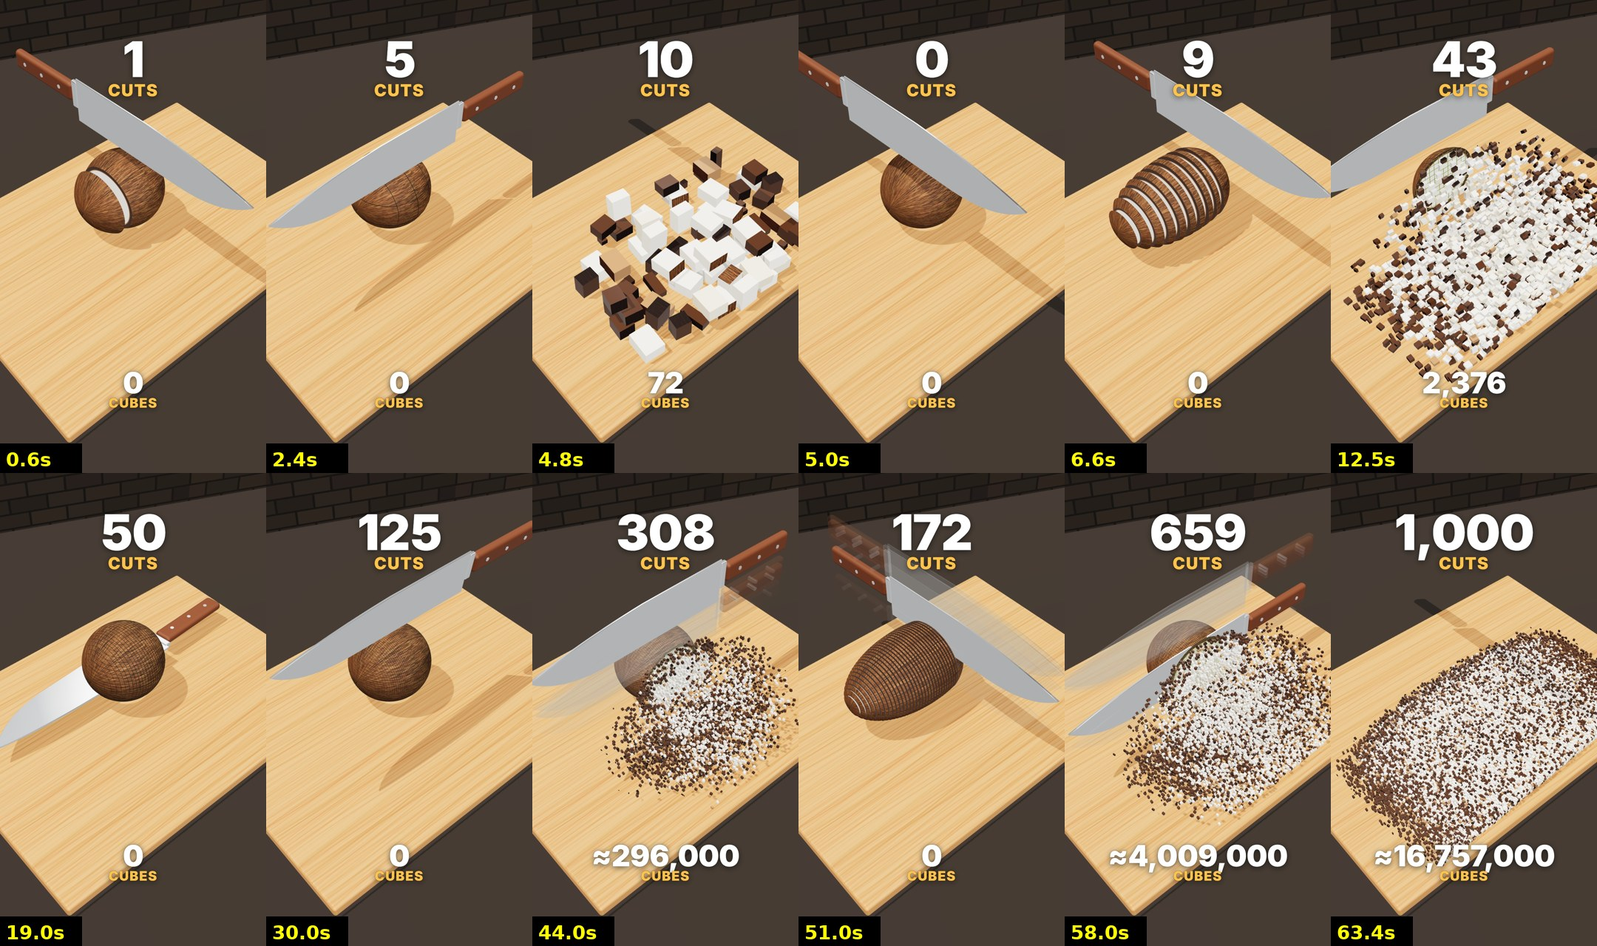
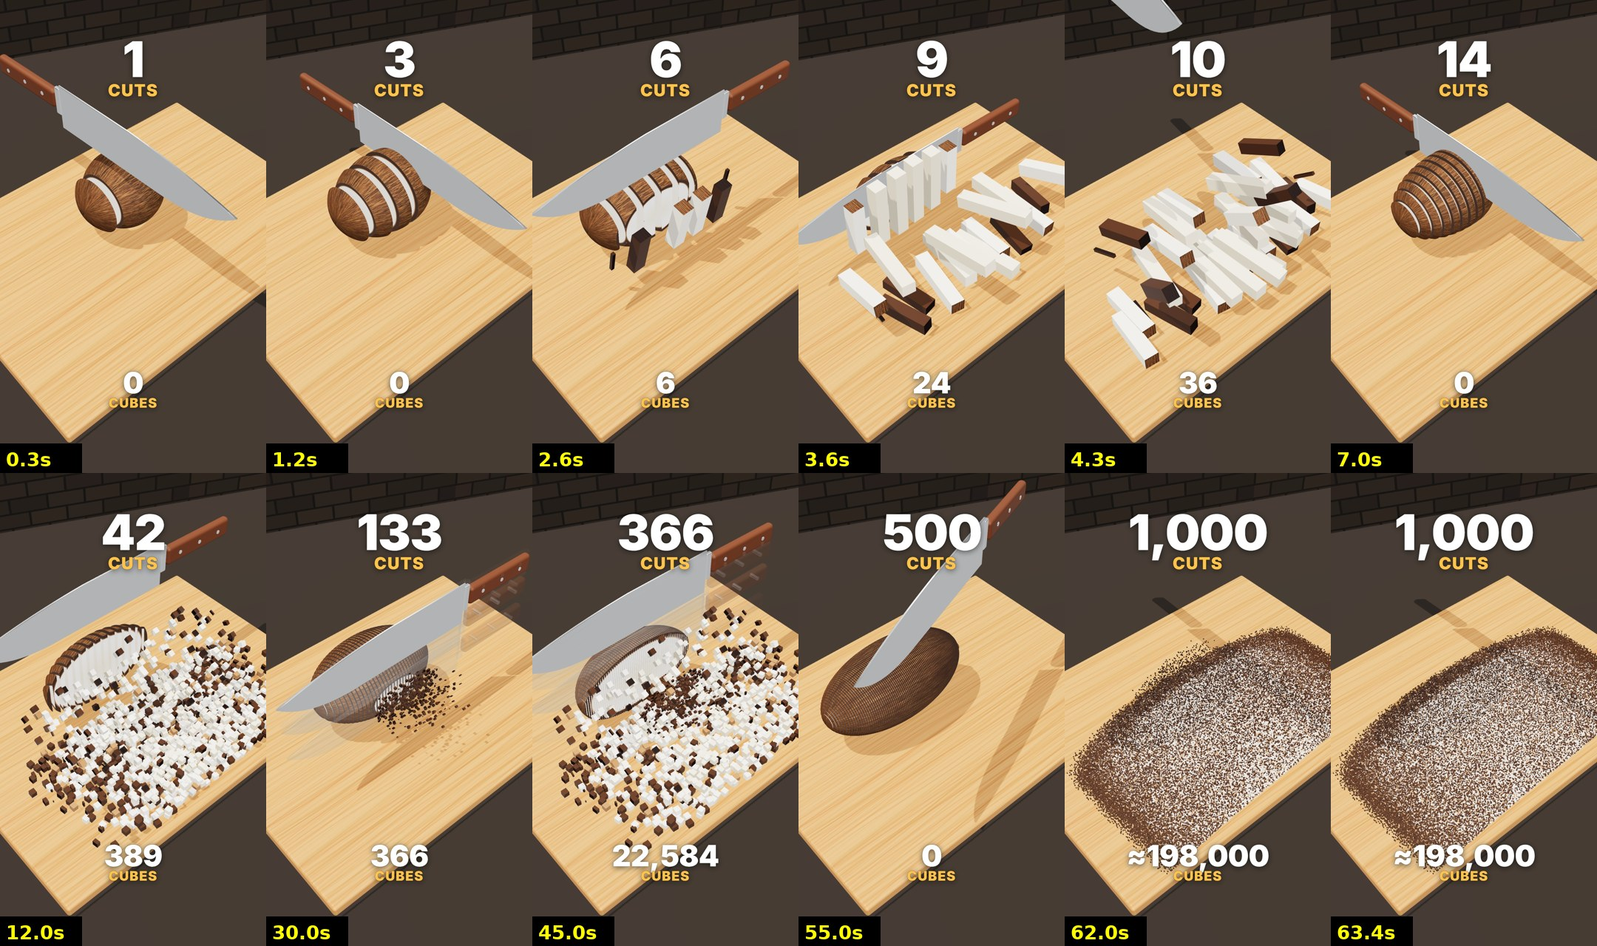
Coconut v2: two cut directions, slices stay apart, rows break into cubes that shrink every round, first cut at 0.12 s, buried cubes culled
Claude-Session: https://claude.ai/code/session_01Ro5VQJpaLhF8Rr21k8EMLG

diff --git a/offthebooks/satisfying/coconut.html b/offthebooks/satisfying/coconut.html
@@ -28,20 +28,25 @@ const easeOut = x => 1 - Math.pow(1 - clamp(x), 3), easeIn = x => Math.pow(clamp
 const hash = (a, b, c = 0) => { let h = Math.imul(a | 0, 374761393) ^ Math.imul(b | 0, 668265263) ^ Math.imul(c | 0, 1274126177); h = Math.imul(h ^ (h >>> 13), 1274126177); return ((h ^ (h >>> 16)) >>> 0) / 4294967296; };
 const near = (a0, a1, c) => c < a0 ? a0 - c : c > a1 ? c - a1 : 0;     // distance from c to the range [a0, a1]
 
-// ---------- timeline: idle → lengthwise cuts → turn → horizontal cuts → turn → crosswise cuts → hold → slide ----------
-const PLAN = [[10, 3.6], [50, 7.4], [100, 8.0], [250, 9.8], [500, 10.8], [1000, 12.0]];   // longer rounds, like the reference (first cut still lands at once)
-const IDLE = .3, TURN = .42, HOLD = .75, LAST_HOLD = 1.9, CLOSE = .8;   // CLOSE: part of the A→C turn in which the slices slide back together
+// ---------- timeline (like the reference): lengthwise cuts → turn → crosswise cuts → short hold → hard cut ----------
+// two directions only. Lengthwise slices really come apart; on the crosswise pass every freed row breaks into cubes.
+const PLAN = [[10, 3.8], [50, 8.3], [100, 8.7], [250, 10.9], [500, 11.9], [1000, 12.9]];   // longer big rounds, ~0.4 s single chops in round 10
+// drawn cube size per round (round 10: the real pieces): every round clearly smaller than the one before
+const SIZE = [0, .16, .1, .065, .042, .027];
+const IDLE = .12, TURN = .42, HOLD = .45, LAST_HOLD = 1.9;      // ~0.5 s of quiet between rounds
 const ROUNDS = []; let acc = 0;
 PLAN.forEach(([n, w], i) => {
-  const ac = Math.round(n / 2), a = Math.round(ac * RX / (RX + RY)), c = ac - a, b = n - ac;   // like the reference: cubes start at half of the cuts
+  const a = Math.round(n / 2), b = n - a, c = 0;
   const r = { i, n, a, c, b, t0: acc };
-  const idle = i === 0 ? .03 : IDLE, turn = i === 0 ? .26 : TURN;  // the very first cut lands right away
-  r.p1 = acc + idle; r.p1e = r.p1 + w * a / n;                     // A: lengthwise (x)
-  r.p3 = r.p1e + turn; r.p3e = r.p3 + w * c / n;                   // C: horizontal (y), top to bottom
-  r.p2 = r.p3e + turn; r.p2e = r.p2 + w * b / n;                   // B: crosswise (z), front to back
+  const step = w / n;
+  r.p1 = i === 0 ? acc + .12 - step : acc + IDLE;                // round 10: the first cut lands at 0.12 s, the knife is already coming down
+  r.p1e = r.p1 + w * a / n;                                        // A: lengthwise (x)
+  r.p3 = r.p3e = r.p1e;                                            // (no horizontal pass)
+  r.p2 = r.p1e + TURN; r.p2e = r.p2 + w * b / n;                   // B: crosswise (z), front to back
   r.hold = r.p2e; r.t1 = r.p2e + (i === PLAN.length - 1 ? LAST_HOLD : HOLD);   // hard cut to the next round, no slide
   r.pow = n <= 50 ? 1 : 1.25;
-  r.VA = Math.min(a + 1, 48); r.VC = Math.min(c + 1, 32); r.VB = Math.min(b + 1, 36);   // drawn grid (the counter always uses the real one)
+  if (i === 0) { r.VA = a + 1; r.VB = b + 1; r.VC = 1; }           // round 10: the pieces are drawn exactly as cut
+  else { r.VA = Math.min(a + 1, Math.round(2 * RX / SIZE[i])); r.VB = Math.min(b + 1, Math.round(2 * RZ / SIZE[i])); r.VC = Math.max(1, Math.round(2 * RY / SIZE[i])); }
   ROUNDS.push(r); acc = r.t1;
 });
 const DURATION = acc;
@@ -49,40 +54,17 @@ const cutAt = (s, e, m, k, pow) => s + (e - s) * Math.pow(k / m, 1 / pow);
 const countAt = (t, s, e, m, pow) => t < s ? 0 : t >= e ? m : m * Math.pow((t - s) / (e - s), pow);
 const cutsOf = (s, e, m, pow) => Array.from({ length: m }, (_, k) => cutAt(s, e, m, k + 1, pow));
 window.TIMELINE = { fps: FPS, duration: DURATION, rounds: ROUNDS.map(r => ({ t0: r.t0, n: r.n, t1: r.t1 })),
-  flat: ROUNDS.flatMap(r => cutsOf(r.p3, r.p3e, r.c, r.pow)).map(x => +x.toFixed(4)),
-  cuts: ROUNDS.flatMap(r => [...cutsOf(r.p1, r.p1e, r.a, r.pow), ...cutsOf(r.p3, r.p3e, r.c, r.pow), ...cutsOf(r.p2, r.p2e, r.b, r.pow)]).map(x => +x.toFixed(4)) };
+  cuts: ROUNDS.flatMap(r => [...cutsOf(r.p1, r.p1e, r.a, r.pow), ...cutsOf(r.p2, r.p2e, r.b, r.pow)]).map(x => +x.toFixed(4)) };
 
-// real piece count. Slices i (x), layers l from the top (y), rows j from the front (z). A cell is a piece when it overlaps
-// the ellipsoid; the uncut rest of each slice / column is one more piece.
+// real piece count with two directions: slices i (x) × rows j (z, from the front); a cell is a piece when it overlaps the
+// coconut's footprint. r.rows[j] = pieces in the first j rows.
 function prepCount(r) {
-  const w = 2 * RX / (r.a + 1), hc = 2 * RY / (r.c + 1), hz = 2 * RZ / (r.b + 1);
-  const dx = i => near(-RX + w * i, -RX + w * (i + 1), 0), dyl = l => near(2 * RY - hc * (l + 1), 2 * RY - hc * l, RY);
-  r.layers = [0];                                                  // prefix sums: pieces in the top layers
-  for (let l = 0; l < r.c; l++) { let n = 0; for (let i = 0; i <= r.a; i++) if ((dx(i) / RX) ** 2 + (dyl(l) / RY) ** 2 < 1) n++; r.layers.push(r.layers[l] + n); }
-  r.dxs = Array.from({ length: r.a + 1 }, (_, i) => dx(i));
-  const zmax = [], diff = new Float64Array(r.b + 2);
-  for (let i = 0; i <= r.a; i++) for (let l = 0; l <= r.c; l++) {
-    const q = (dx(i) / RX) ** 2 + (dyl(l) / RY) ** 2; if (q >= 1) continue;
-    const zm = RZ * Math.sqrt(1 - q); zmax.push(zm);
-    const lo = Math.max(0, Math.floor((RZ - zm) / hz - 1) + 1), hi = Math.min(r.b, Math.ceil((RZ + zm) / hz) - 1);   // rows j it reaches
-    if (hi >= lo) { diff[lo]++; diff[hi + 1]--; }
-  }
-  r.zmax = Float64Array.from(zmax).sort();
-  r.rows = [0]; let run = 0;
-  for (let j = 0; j < r.b; j++) { run += diff[j]; r.rows.push(r.rows[j] + run); }
+  const w = 2 * RX / (r.a + 1), hz = 2 * RZ / (r.b + 1);
+  const dx = Array.from({ length: r.a + 1 }, (_, i) => (near(-RX + w * i, -RX + w * (i + 1), 0) / RX) ** 2);
+  r.rows = [0];
+  for (let j = 0; j <= r.b; j++) { const dz = (near(RZ - hz * (j + 1), RZ - hz * j, 0) / RZ) ** 2; let n = 0; for (const d of dx) if (d + dz < 1) n++; r.rows.push(r.rows[j] + n); }
 }
-function pieceCount(r, ka, kc, kb) {
-  if (kc === 0 && kb === 0) return ka + 1;
-  if (!r.rows) prepCount(r);
-  if (kb === 0) {                                                  // top kc layers are cut off; below them each slice is one piece
-    const y = 2 * RY - 2 * RY / (r.c + 1) * kc, dy = Math.max(0, RY - y);
-    let rest = 0; for (const d of r.dxs) if ((d / RX) ** 2 + (dy / RY) ** 2 < 1) rest++;
-    return r.layers[kc] + rest;
-  }
-  const zc = RZ - 2 * RZ / (r.b + 1) * kb;                         // behind the last crosswise cut: one piece per column
-  let lo = 0, hi = r.zmax.length; while (lo < hi) { const m = (lo + hi) >> 1; if (r.zmax[m] > -zc) hi = m; else lo = m + 1; }
-  return r.rows[kb] + r.zmax.length - lo;
-}
+function pieceCount(r, ka, kc, kb) { if (!r.rows) prepCount(r); return kb === r.b ? r.rows[r.b + 1] : r.rows[kb]; }
 
 // ---------- renderer, stage (identical to the soap video) ----------
 const r3 = new THREE.WebGLRenderer({ antialias: true, preserveDrawingBuffer: true });
@@ -166,13 +148,13 @@ const ringGeoH = new THREE.CylinderGeometry(1, 1, 1, 128, 1, true);             
 const boxGeo = new THREE.BoxGeometry(1, 1, 1);
 const M = new THREE.Matrix4(), Q = new THREE.Quaternion(), Q2 = new THREE.Quaternion(), E = new THREE.Euler(), P = new THREE.Vector3(), S = new THREE.Vector3();
 const AX = new THREE.Vector3(), UP = new THREE.Vector3(0, 1, 0);
-const CUBES = 36000, COLR = new THREE.Color();
+const CUBES = 300000, COLR = new THREE.Color();
 function makeSet() {
   const g = new THREE.Group(); rig.add(g);
   const clipZ = new THREE.Plane(new THREE.Vector3(0, 0, 1), 0), clipX = new THREE.Plane(new THREE.Vector3(1, 0, 0), 9);
   const whole = new THREE.Mesh(melonGeo, Object.assign(rindMat(), { clippingPlanes: [clipZ, clipX], clipShadows: true }));
   whole.scale.set(RX, RY, RZ); whole.position.y = RY; whole.castShadow = whole.receiveShadow = true; g.add(whole);
-  const cap = new THREE.Mesh(capGeo, fleshMat(FLESH_DISC)); cap.castShadow = true; g.add(cap);
+  const cap = new THREE.Mesh(capGeo, Object.assign(fleshMat(FLESH_DISC), { clippingPlanes: [clipX] })); cap.castShadow = true; g.add(cap);   // front face of the rest
   const lineMat = new THREE.MeshStandardMaterial({ color: 0x0a1406, roughness: .7, clippingPlanes: [clipZ], clipShadows: true });
   const rings = new THREE.InstancedMesh(ringGeo, lineMat, 130); g.add(rings);
   const ringsH = new THREE.InstancedMesh(ringGeoH, lineMat, 130); g.add(ringsH);
@@ -180,20 +162,22 @@ function makeSet() {
   const bracts = new THREE.InstancedMesh(bractGeo, new THREE.MeshStandardMaterial({ vertexColors: true, roughness: .45, clippingPlanes: [clipZ], clipShadows: true }), BRACTS.length);
   BRACTS.forEach((m, i) => bracts.setMatrixAt(i, m)); bracts.castShadow = true; g.add(bracts);
   // cubes: inner ones are all flesh, outer ones carry the skin on the faces that were the outside of the melon
-  const fl = fleshMat(FLESH), sk = rindMat(); sk.map = RIND.clone(); sk.map.repeat.set(.06, .08); sk.map.offset.set(.03, .45); sk.map.needsUpdate = true;
+  const fl = new THREE.MeshStandardMaterial({ map: FLESH, roughness: .4 }), sk = rindMat(); sk.map = RIND.clone(); sk.map.repeat.set(.06, .08); sk.map.offset.set(.03, .45); sk.map.needsUpdate = true;
   const cubes = [[fl, fl, fl, fl, fl, fl], [sk, sk, fl, fl, fl, fl], [fl, fl, sk, sk, fl, fl], [fl, fl, fl, fl, sk, sk]].map(m => {
     const im = new THREE.InstancedMesh(boxGeo, m, CUBES); im.castShadow = im.receiveShadow = true; im.setColorAt(0, COLR.set('#fff')); g.add(im); return im;
   });
   // instanced pieces move far from where they started (they fall into the pile and slide away with the set): never cull
   // them by a stale bounding sphere, or the pile vanishes mid-slide while its shadow stays
   // lengthwise slices that really come apart: each one is the shell clipped to its x range, with the cut faces on both sides
-  const capMat = fleshMat(FLESH_DISC), slabs = [];
-  for (let i = 0; i < 50; i++) {
+  // (on the crosswise pass the uncut back part of every slice stays apart too: everything is also clipped by clipZ)
+  const capMat = Object.assign(fleshMat(FLESH_DISC), { clippingPlanes: [clipZ] }), slabs = [];
+  for (let i = 0; i < 90; i++) {
     const p0 = new THREE.Plane(), p1 = new THREE.Plane();
-    const m = new THREE.Mesh(slabGeo, Object.assign(rindMat(), { clippingPlanes: [p0, p1], clipShadows: true }));
+    const m = new THREE.Mesh(slabGeo, Object.assign(rindMat(), { clippingPlanes: [p0, p1, clipZ], clipShadows: true }));
     m.scale.set(RX, RY, RZ); m.castShadow = m.receiveShadow = true;
     const c0 = new THREE.Mesh(capNX, capMat), c1 = new THREE.Mesh(capPX, capMat); c0.castShadow = c1.castShadow = true;
-    g.add(m, c0, c1); slabs.push({ m, p0, p1, c0, c1 });
+    const cf = new THREE.Mesh(capGeo, Object.assign(fleshMat(FLESH_DISC), { clippingPlanes: [p0, p1] })); cf.castShadow = true;   // its front cut face
+    g.add(m, c0, c1, cf); slabs.push({ m, p0, p1, c0, c1, cf });
   }
   const capR = new THREE.Mesh(capNX, capMat); capR.castShadow = true; g.add(capR);   // left face of the uncut rest
   g.traverse(o => { if (o.isInstancedMesh) o.frustumCulled = false; });
@@ -208,6 +192,16 @@ function setClip(set, plane, nx, nz, c) {
   plane.applyMatrix4(set.g.matrixWorld);
 }
 const cutTimeB = (r, k) => cutAt(r.p2, r.p2e, r.b, k, r.pow);
+// lengthwise slices slide apart: each cut pushes everything left of it a little further left
+const gapOf = r => clamp(1.5 / r.VA, .025, .26);
+const offFull = (r, v) => -gapOf(r) * (r.VA - 1 - v);
+function slabOffsets(r, t) {
+  const w = 2 * RX / (r.a + 1), wv = 2 * RX / r.VA, gap = gapOf(r);
+  const pc = w * countAt(t, r.p1, r.p1e, r.a, r.pow) / wv + (t > r.p1e ? .6 * clamp((t - r.p1e) / .25) : 0);
+  const offs = new Float64Array(r.VA); let off = 0;
+  for (let v = r.VA - 2; v >= 0; v--) { off -= gap * easeOut(clamp((pc - (v + 1)) / .6)); offs[v] = off; }
+  return offs;
+}
 
 // the drawn cubes of every crosswise row (front to back), each trimmed to the part inside the melon, with its landing spot
 function prepCells(r) {
@@ -235,7 +229,7 @@ function prepCells(r) {
       const ang = (Math.PI / 2) * (.35 + .9 * up) * (.6 + .8 * h3);
       AX.set(1, 0, (h1 - .5) * 1.2).normalize();
       const qf = new THREE.Quaternion().setFromAxisAngle(AX, ang).premultiply(Q2.setFromAxisAngle(UP, (h2 - .5) * 1.4));
-      row.push({ x, y, z, sx, sy, sz, kind, fx, fy, fz, qf, dur: .26 + .24 * Math.sqrt(Math.max(0, y - fy)), h1, col: avoCol(x, y, z) });
+      row.push({ v, x, y, z, sx, sy, sz, kind, fx, fy, fz, qf, dur: .3, h1, col: avoCol(x, y, z) });
     }
     r.cells.push(row);
   }
@@ -248,19 +242,22 @@ function prepCells(r) {
   const span = (x, a, f) => { const i0 = f(x - a / 2 + CELL / 2), i1 = f(x + a / 2 - CELL / 2); return i1 >= i0 ? [i0, i1] : [f(x), f(x)]; };
   const top = (x, z, a, b) => { let m = 0; const [i0, i1] = span(x, a, ix), [k0, k1] = span(z, b, iz);
     for (let i = i0; i <= i1; i++) for (let k = k0; k <= k1; k++) m = Math.max(m, hf[i * NZ + k]); return m; };
+  // pieces buried under the carpet are not drawn any more (they cannot be seen, and software rendering is slow): once a
+  // cell has grown more than a layer above a piece, the piece is hidden from the moment the covering piece lands
+  const pend = new Map(), small = (2 * RX / r.VA) <= CELL * 1.2;
   let k = 0;
   r.cells.forEach((row, j) => {
     const zr = RZ - hv * (j + 1);
     for (const c of row) {
       k++;
-      const h1 = hash(k, j, 17 + r.n), h2 = hash(j, k, 29), tip = h1 < .78 ? 1 : 2;      // most tip over once, some twice
+      const h1 = hash(k, j, 17 + r.n), h2 = hash(j, k, 29), tip = c.sy > 1.3 * c.sz || h1 < .78 ? 1 : 2;   // most tip over once, some twice; tall ones lie down
       const ve = tip === 1 ? c.sz : c.sy, fa = c.sx, fb = tip === 1 ? c.sy : c.sz;
-      const bx = -.15 + (c.x / RX) * 3.8;
+      const sx0 = c.x + offFull(r, c.v), bx = -.15 + (c.x / RX) * 3.8;
       let best = null;
       for (let q = 0; q < 6; q++) {
         const cx = clamp(bx + (hash(k, q, 3) - .5) * 1.4, GX0 + fa / 2, GX1 - fa / 2);
         const z0 = zr + .3 + fb / 2, cz = lerp(z0, GZ1 - fb / 2, Math.pow(hash(q, k, 5), .8));
-        const hgt = top(cx, cz, fa, fb) + .015 * Math.hypot(cx - c.x, cz - c.z);
+        const hgt = top(cx, cz, fa, fb) + .015 * Math.hypot(cx - sx0, cz - c.z);
         if (!best || hgt < best[2]) best = [cx, cz, hgt];
       }
       const [fx, fz] = best, h = top(fx, fz, fa, fb);
@@ -268,7 +265,13 @@ function prepCells(r) {
         for (let i = i0; i <= i1; i++) for (let q = k0; q <= k1; q++) hf[i * NZ + q] = Math.max(hf[i * NZ + q], h + ve * cover * .95); }   // a small piece only partly fills its cell
       c.fx = fx; c.fz = fz; c.fy = h + ve / 2;
       c.qf = new THREE.Quaternion().setFromAxisAngle(UP, (h2 - .5) * .5).multiply(new THREE.Quaternion().setFromAxisAngle(new THREE.Vector3(1, 0, 0), tip * Math.PI / 2 + (hash(k, 9, j) - .5) * .2));
-      c.dur = .32 + .2 * Math.sqrt(Math.hypot(c.fx - c.x, c.fy - c.y, c.fz - c.z));
+      c.x0 = sx0; c.dur = .32 + .2 * Math.sqrt(Math.hypot(c.fx - sx0, c.fy - c.y, c.fz - c.z));
+      c.land = row.tc + c.dur / 1.12 + .08; c.hide = Infinity;
+      if (small) {
+        const key = ix(fx) * NZ + iz(fz), hh = hf[key], list = pend.get(key) || [];
+        for (let q = list.length - 1; q >= 0; q--) { const o = list[q]; if (hh >= o.fy + o.ve * 1.1) { o.hide = Math.max(o.land, c.land); list.splice(q, 1); } }
+        c.ve = ve; list.push(c); pend.set(key, list);
+      }
     }
   });
 }
@@ -283,62 +286,37 @@ function drawMelon(set, r, t, offset) {
   const vline = x => { const k = Math.sqrt(Math.max(0, 1 - (x / RX) ** 2)); if (k > .03) put(set.rings, nl++, x, RY, 0, lineW, RY * k * 1.004, RZ * k * 1.004); };
   const hline = y => { const k = Math.sqrt(Math.max(0, 1 - ((y - RY) / RY) ** 2)); if (k > .03) put(set.ringsH, nh++, 0, y, 0, RX * k * 1.004, lineW, RZ * k * 1.004); };
   // lengthwise lines drawn so far, then horizontal ones (the melon keeps its shape through both)
-  const nva = Math.min(r.VA - 1, Math.floor((w * ka) / wv + 1e-6));
-  // while cutting lengthwise (and until the slices are pushed back together in the turn) every cut slice slides away
-  // from the rest, so real gaps open between the slices
-  const gapF = t < r.p1e ? 1 : 1 - easeInOut((t - r.p1e) / (r.p3 - r.p1e) / CLOSE);
+  const nva = Math.min(r.VA - 1, Math.floor((w * ka) / wv + 1e-6)), offs = slabOffsets(r, t);
+  const nr = kb === 0 ? 0 : kb === r.b ? r.VB : Math.min(r.VB, Math.floor(hz * kb / hv + 1e-6)), zr = RZ - hv * nr;   // the last cut frees the back row too
+  setClip(set, set.clipZ, 0, -1, kb === 0 ? RZ + 1 : zr);           // the uncut back part stays (plane parked behind everything before)
+  const kz = Math.sqrt(Math.max(0, 1 - (zr / RZ) ** 2)), front = kb > 0 && kz > .03;
   let ns = 0;
-  if (gapF > 0 && nva > 0) {
-    const gap = clamp(2.1 / r.VA, .045, .28) * gapF, pc = w * countAt(t, r.p1, r.p1e, r.a, r.pow) / wv;
-    let off = 0; const offs = [];
-    for (let v = nva - 1; v >= 0; v--) { off -= gap * easeOut(clamp((pc - (v + 1)) / .6)); offs[v] = off; }
-    for (let v = 0; v < nva; v++) {
-      const s = set.slabs[ns++], x0 = -RX + wv * v, x1 = x0 + wv, o = offs[v];
-      s.m.visible = true; s.m.position.set(o, RY, 0);
-      setClip(set, s.p0, 1, 0, -(x0 + o)); setClip(set, s.p1, -1, 0, x1 + o);
-      for (const [cm, x, sg] of [[s.c0, x0, -1], [s.c1, x1, 1]]) {
-        const kk = Math.sqrt(Math.max(0, 1 - (x / RX) ** 2)); cm.visible = kk > .03;
-        cm.position.set(x + o + sg * .001, RY, 0); cm.scale.set(1, RY * kk, RZ * kk);
-      }
+  for (let v = 0; v < nva; v++) {                                    // the cut slices, each moved by its offset
+    const s = set.slabs[ns++], x0 = -RX + wv * v, x1 = x0 + wv, o = offs[v];
+    s.m.visible = true; s.m.position.set(o, RY, 0);
+    setClip(set, s.p0, 1, 0, -(x0 + o)); setClip(set, s.p1, -1, 0, x1 + o);
+    for (const [cm, x, sg] of [[s.c0, x0, -1], [s.c1, x1, 1]]) {
+      const kk = Math.sqrt(Math.max(0, 1 - (x / RX) ** 2)); cm.visible = kk > .03;
+      cm.position.set(x + o + sg * .001, RY, 0); cm.scale.set(1, RY * kk, RZ * kk);
     }
-    const xl = -RX + wv * nva, kk = Math.sqrt(Math.max(0, 1 - (xl / RX) ** 2));
-    setClip(set, set.clipX, 1, 0, -xl);
-    set.capR.visible = true; set.capR.position.set(xl - .001, RY, 0); set.capR.scale.set(1, RY * kk, RZ * kk);
-  } else {
-    setClip(set, set.clipX, 1, 0, RX + 9); set.capR.visible = false;
-    for (let v = 0; v < nva; v++) vline(-RX + wv * (v + 1));
+    s.cf.visible = front; s.cf.position.set(o, RY, zr + .002); s.cf.scale.set(RX * kz, RY * kz, 1);
   }
-  for (let i = ns; i < set.slabs.length; i++) { const s = set.slabs[i]; s.m.visible = s.c0.visible = s.c1.visible = false; }
-  const nvc = Math.min(r.VC - 1, Math.floor((hc * kc) / hcv + 1e-6));
-  for (let l = 0; l < nvc; l++) hline(2 * RY - hcv * (l + 1));
-  set.whole.visible = true;
-  if (kb === 0) {
-    setClip(set, set.clipZ, 0, -1, RZ + 1);                         // plane parked behind nothing: keeps the whole melon
-    set.bracts.visible = true;
-    set.cap.visible = false;
-  } else {                                                          // crosswise, front to back: each freed row of cubes tumbles forward
+  for (let i = ns; i < set.slabs.length; i++) { const s = set.slabs[i]; s.m.visible = s.c0.visible = s.c1.visible = s.cf.visible = false; }
+  const xl = -RX + wv * nva, kk = Math.sqrt(Math.max(0, 1 - (xl / RX) ** 2));   // the rest (right of the last lengthwise cut)
+  setClip(set, set.clipX, 1, 0, nva > 0 ? -xl : RX + 9);
+  set.capR.visible = nva > 0 && kk > .03; set.capR.position.set(xl - .001, RY, 0); set.capR.scale.set(1, RY * kk, RZ * kk);
+  set.whole.visible = true; set.bracts.visible = nr < r.VB;
+  set.cap.visible = front; set.cap.position.set(0, RY, zr + .002); set.cap.scale.set(RX * kz, RY * kz, 1);
+  if (kb > 0) {                                                      // crosswise, front to back: each freed row breaks into cubes that tip over
     if (!r.cells) prepCells(r);
-    const nr = kb === r.b ? r.VB : Math.min(r.VB, Math.floor(hz * kb / hv + 1e-6)), zr = RZ - hv * nr;   // the last cut frees the back row too
-    setClip(set, set.clipZ, 0, -1, zr);                             // the uncut back part stays whole
-    set.bracts.visible = nr < r.VB;
-    const kz = Math.sqrt(Math.max(0, 1 - (zr / RZ) ** 2));
-    set.cap.visible = kz > .03;
-    set.cap.position.set(0, RY, zr + .002); set.cap.scale.set(RX * kz, RY * kz, 1);
-    for (let v = 0; v < r.VA - 1; v++) {                            // the grid on the front cut face of the uncut part
-      const x = -RX + wv * (v + 1), q = 1 - (x / (RX * kz)) ** 2; if (q <= 0) continue;
-      put(set.capLines, ncl++, x, RY, zr + .004, lineW * .85, 2 * RY * kz * Math.sqrt(q) * .97, .004);
-    }
-    for (let l = 0; l < r.VC - 1; l++) {
-      const y = 2 * RY - hcv * (l + 1), q = 1 - ((y - RY) / (RY * kz)) ** 2; if (q <= 0) continue;
-      put(set.capLines, ncl++, 0, y, zr + .004, 2 * RX * kz * Math.sqrt(q) * .97, lineW * .85, .004);
-    }
     for (let j = 0; j < nr; j++) for (const c of r.cells[j]) {
+      if (t > c.hide) continue;
       const s = (t - r.cells[j].tc) / c.dur, u = clamp(s * 1.12);
       const fall = u * u, side = 1 - (1 - u) * (1 - u);              // gravity down, momentum forward
       const bounce = .05 * Math.sin(clamp((s * 1.12 - 1) / .14) * Math.PI) * Math.min(c.sx, c.sy, c.sz);
       Q.identity().slerp(c.qf, easeInOut(u));
-      const hop = .16 * Math.hypot(c.fx - c.x, c.fz - c.z) * Math.sin(Math.PI * u);   // pieces thrown further fly a little higher
-      P.set(lerp(c.x, c.fx, side), lerp(c.y, c.fy, fall) + bounce + hop, lerp(c.z, c.fz, side));
+      const hop = .16 * Math.hypot(c.fx - c.x0, c.fz - c.z) * Math.sin(Math.PI * u);   // pieces thrown further fly a little higher
+      P.set(lerp(c.x0, c.fx, side), lerp(c.y, c.fy, fall) + bounce + hop, lerp(c.z, c.fz, side));
       S.set(c.sx * .97, c.sy * .97, c.sz * .97); M.compose(P, Q, S);
       const im = set.cubes[c.kind]; if (nn[c.kind] < CUBES) { im.setColorAt(nn[c.kind], COLR.set(c.col)); im.setMatrixAt(nn[c.kind]++, M); }
     }
@@ -346,7 +324,7 @@ function drawMelon(set, r, t, offset) {
   set.rings.count = nl; set.rings.instanceMatrix.needsUpdate = true;
   set.ringsH.count = nh; set.ringsH.instanceMatrix.needsUpdate = true;
   set.capLines.count = ncl; set.capLines.instanceMatrix.needsUpdate = true;
-  set.cubes.forEach((im, i) => { im.count = nn[i]; im.instanceMatrix.needsUpdate = true; if (im.instanceColor) im.instanceColor.needsUpdate = true; });
+  set.cubes.forEach((im, i) => { im.count = nn[i]; im.castShadow = wv > .05; im.instanceMatrix.needsUpdate = true; if (im.instanceColor) im.instanceColor.needsUpdate = true; });
   return { ka, kc, kb };
 }
 
@@ -389,19 +367,9 @@ function knifeAt(r, t) {
     const from = xCut(r, Math.max(1, k)), to = xCut(r, Math.min(r.a, k + 1));
     return { q: qa, x: lerp(from, to, easeInOut((ph - .25) / .5)), y: k === 0 ? REST_Y * (1 - ph) : LIFT * Math.pow(Math.sin(Math.PI * ph), .7), z: A_Z, dir: 'a' };
   }
-  if (t < r.p3) {                                                  // lift out, swing round and lie flat in front of the melon
-    const u = easeInOut((t - r.p1e) / (r.p3 - r.p1e)), q = qa.clone().slerp(QC, u);
-    return { q, x: lerp(xCut(r, r.a), B_X, u), y: lerp(0, yCut(r, 1), u) + (2 * RY + .6) * Math.sin(Math.PI * u), z: lerp(A_Z, C_Z0, u) };
-  }
-  if (t < r.p3e) {
-    const x = countAt(t, r.p3, r.p3e, r.c, r.pow), k = Math.floor(x), ph = x - k;
-    const back = k === 0 ? 1 : easeInOut(ph / .35), push = easeInOut((ph - .35) / .65);
-    const y = k === 0 ? yCut(r, 1) : lerp(yCut(r, k), yCut(r, Math.min(r.c, k + 1)), back);
-    return { q: QC, x: B_X, y, z: ph < .35 && k > 0 ? lerp(C_Z1, C_Z0, back) : lerp(C_Z0, C_Z1, push), dir: 'c' };
-  }
-  if (t < r.p2) {                                                  // pull out the back, stand up for the crosswise cuts
-    const u = easeInOut((t - r.p3e) / (r.p2 - r.p3e)), q = QC.clone().slerp(qb, u);
-    return { q, x: B_X, y: lerp(yCut(r, r.c), LIFT, u) + (2 * RY - yCut(r, r.c) + .4) * Math.sin(Math.PI * u), z: lerp(C_Z1, zCut(r, 1), u) };
+  if (t < r.p2) {                                                  // lift out and swing round for the crosswise cuts
+    const u = easeInOut((t - r.p1e) / (r.p2 - r.p1e)), q = qa.clone().slerp(qb, u);
+    return { q, x: lerp(xCut(r, r.a), B_X, u), y: lerp(0, LIFT, u) + (2 * RY + .6) * Math.sin(Math.PI * u), z: lerp(A_Z, zCut(r, 1), u) };
   }
   if (t < r.p2e) {
     const x = countAt(t, r.p2, r.p2e, r.b, r.pow), k = Math.floor(x), ph = x - k;
